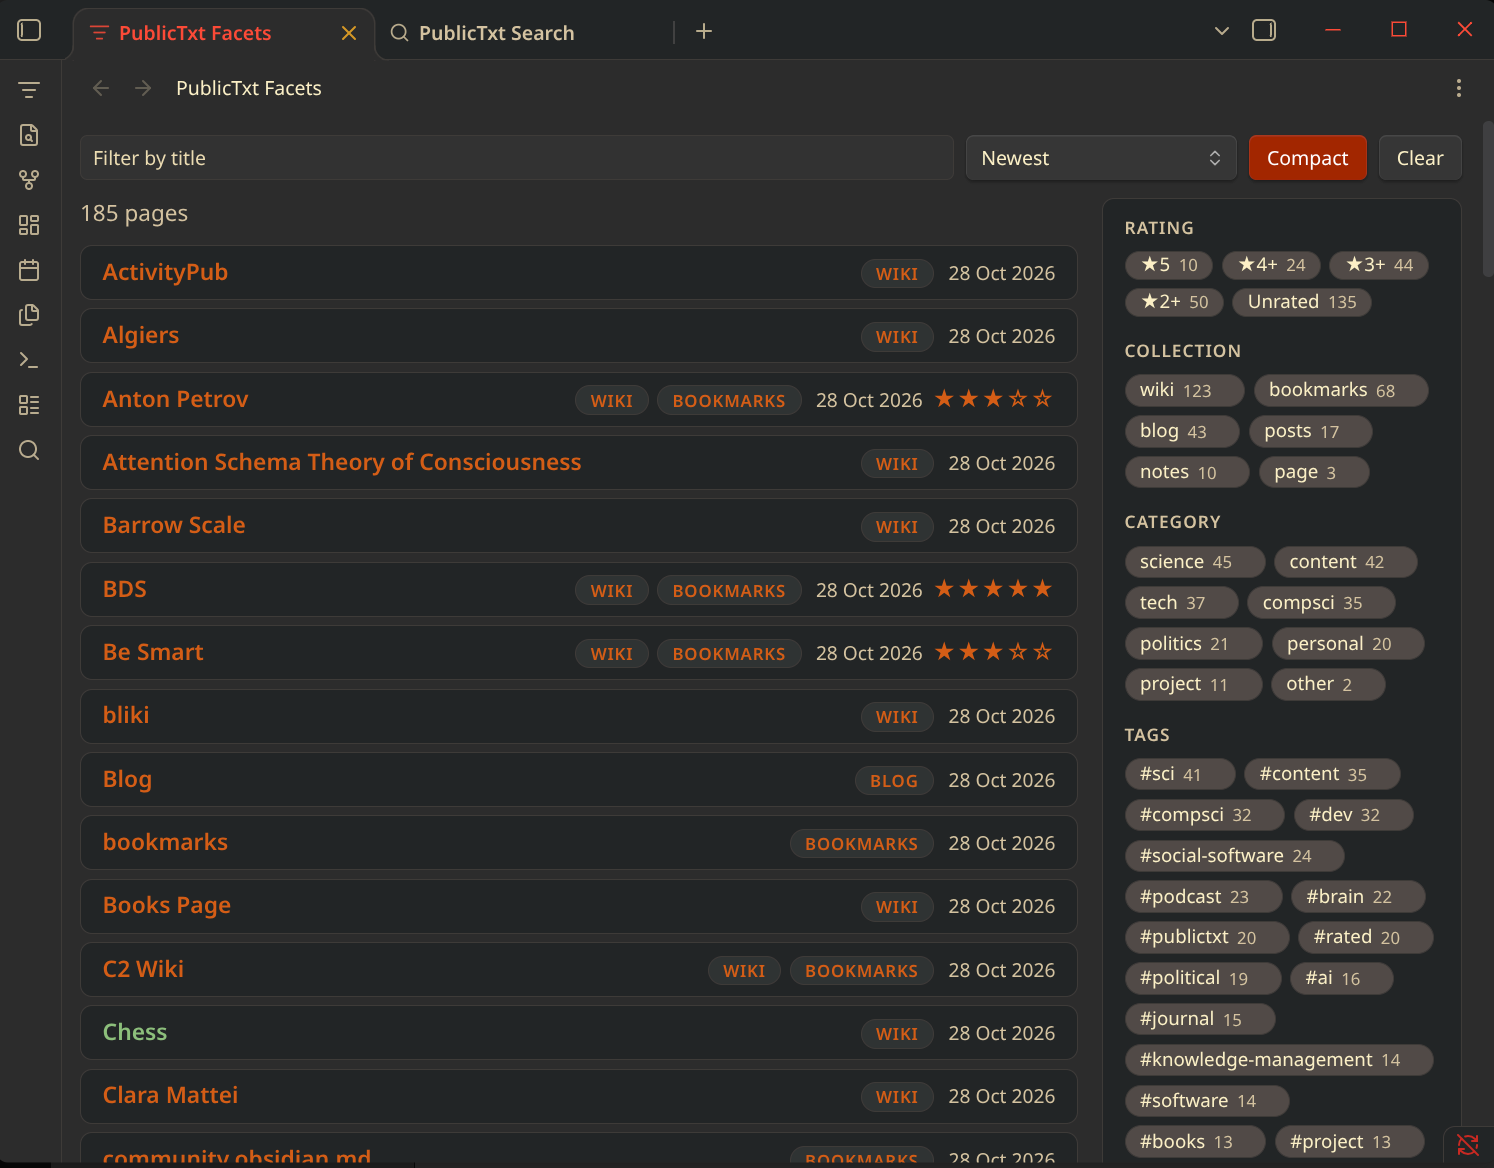
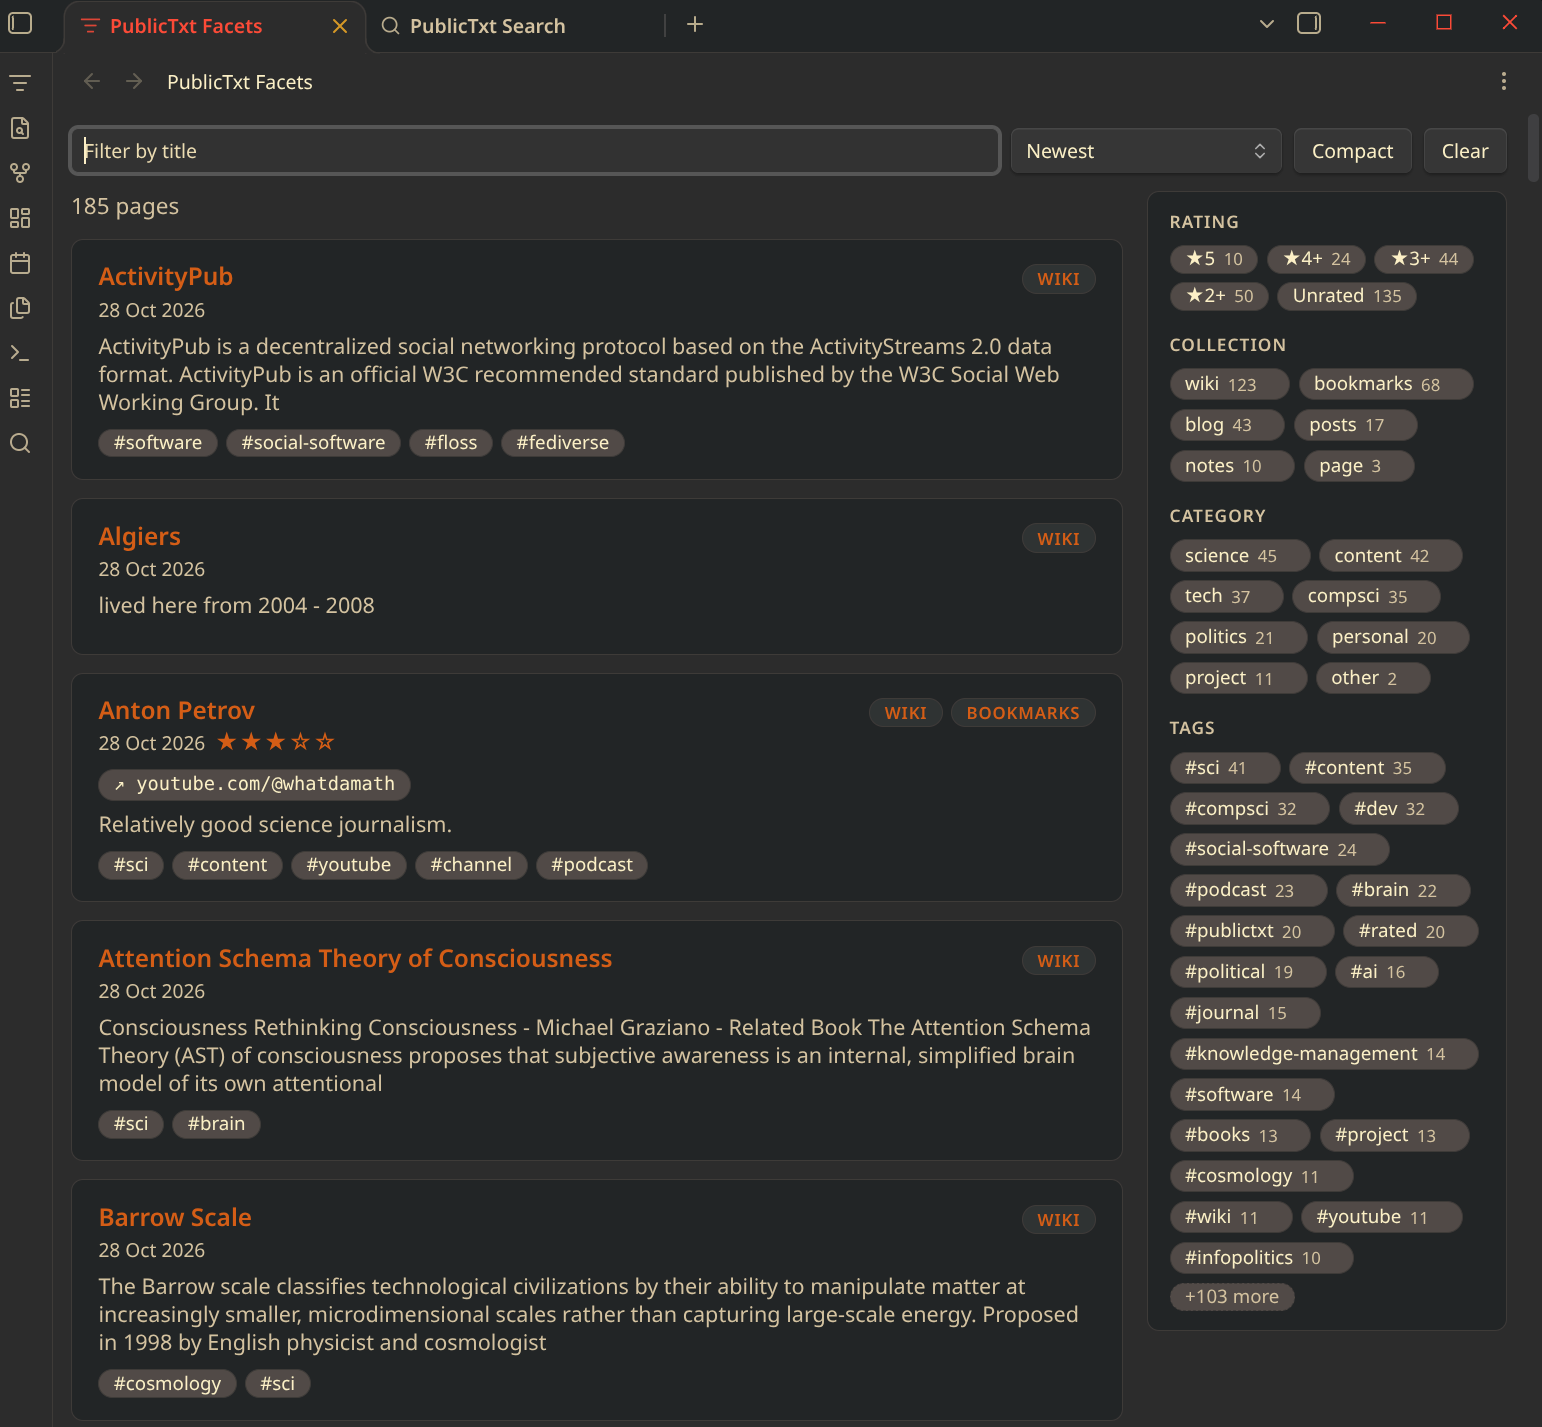
README: full-card, compact, title filter and light theme screenshots

diff --git a/README.md b/README.md
@@ -12,7 +12,7 @@ It shares the concepts of [PublicTxt-Pages](https://github.com/publictxt/publict
 
 Open the view from the ribbon (the filter icon) or the command **PublicTxt Facets: Open**.
 
-![The view: compact cards on the left, rating, collection, category and tag chips on the right](docs/screenshots/default-view.png)
+![The view: cards on the left, rating, collection, category and tag chips on the right](docs/screenshots/default-view.png)
 
 - **Chips.** Each collection, category and tag value is a chip. Click a chip to include it,
   click its ✕ to exclude it, click again to clear it.
@@ -28,6 +28,10 @@ Open the view from the ribbon (the filter icon) or the command **PublicTxt Facet
 - **Clear** resets every filter and the sort.
 
 ![The sort menu](docs/screenshots/sort-options.png)
+
+![Compact cards: one line each, with title, collections, date and stars](docs/screenshots/compact-view.png)
+
+![The title filter: three pages with "huma" in the title, and the chip counts narrowed to them](docs/screenshots/title-filter.png)
 
 The view remembers its filters with the workspace, and follows your edits: notes you create,
 change, rename or delete update the results as you write.
@@ -80,8 +84,11 @@ None has a default hotkey. Set one in **Settings → Hotkeys**.
 ## Compatibility and privacy
 
 - Obsidian 1.13 or later, on desktop and mobile.
+- Colours come from your theme, light or dark.
 - Read-only: it never changes your notes.
 - No network access and no telemetry. Nothing leaves your vault.
+
+![The view in the default light theme](docs/screenshots/default-view-light.png)
 
 ## Development
 
